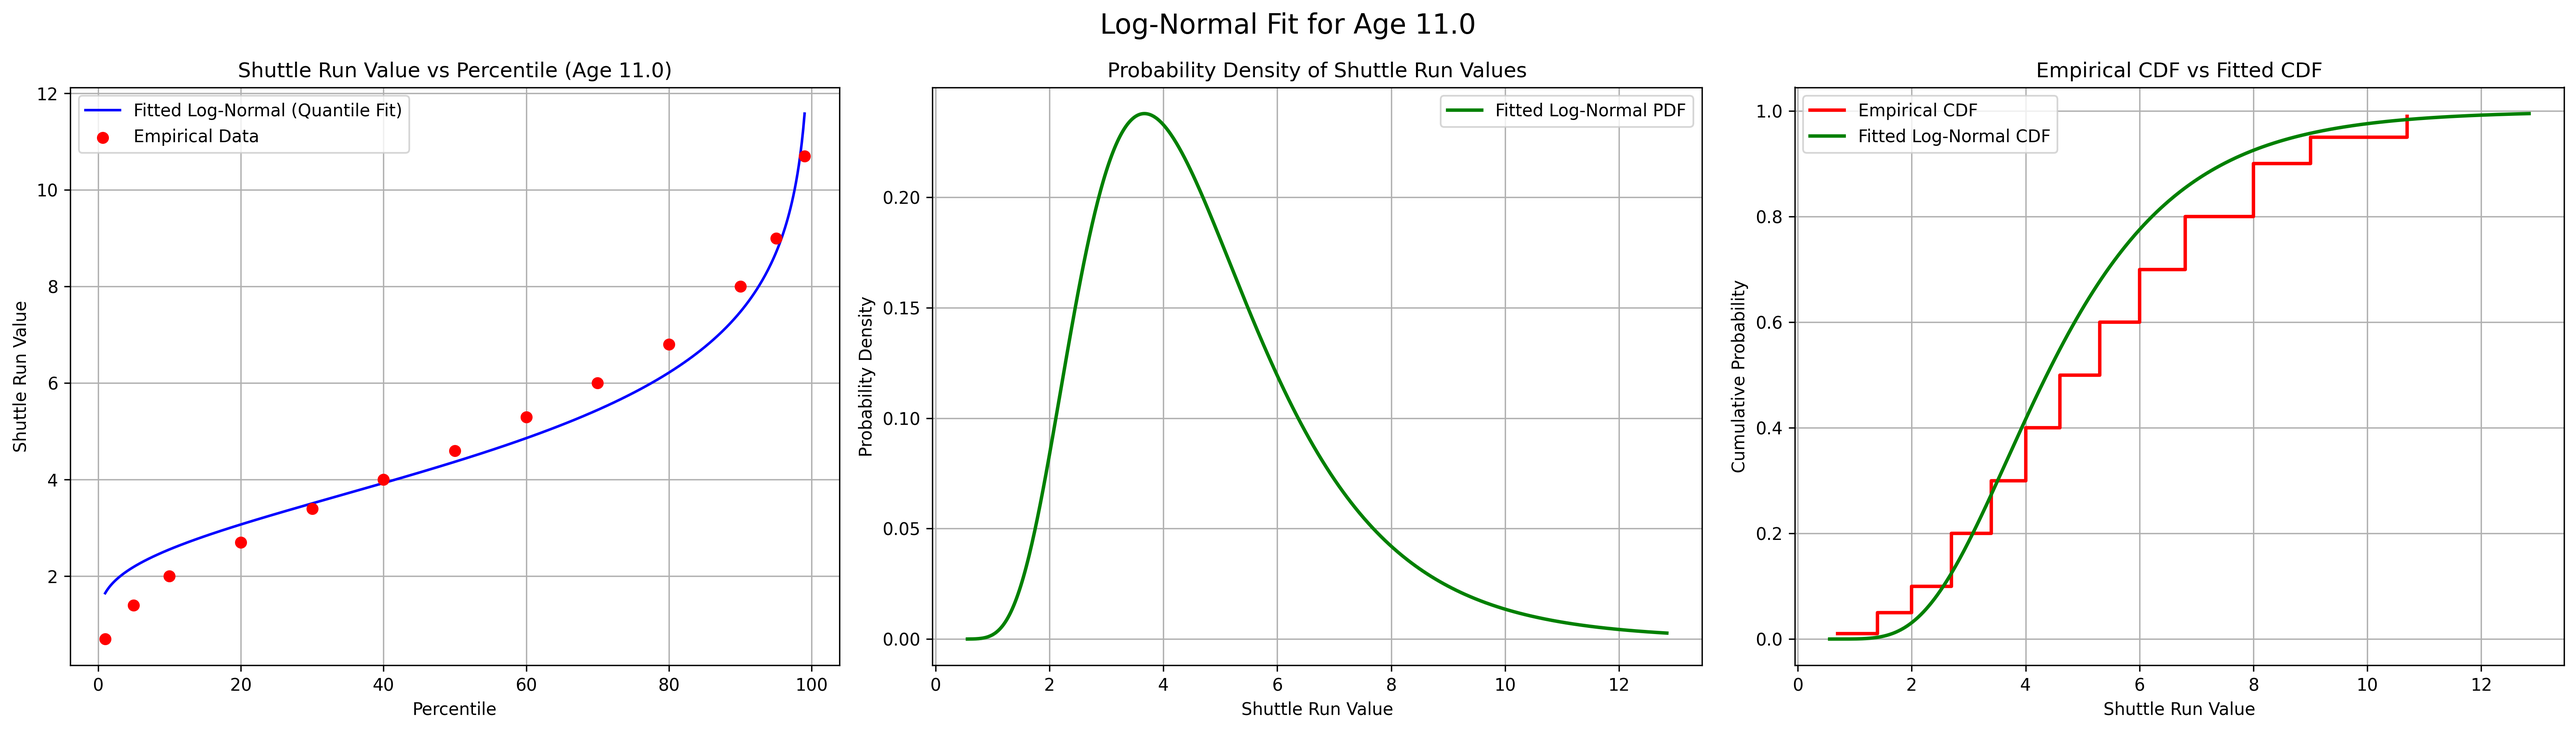
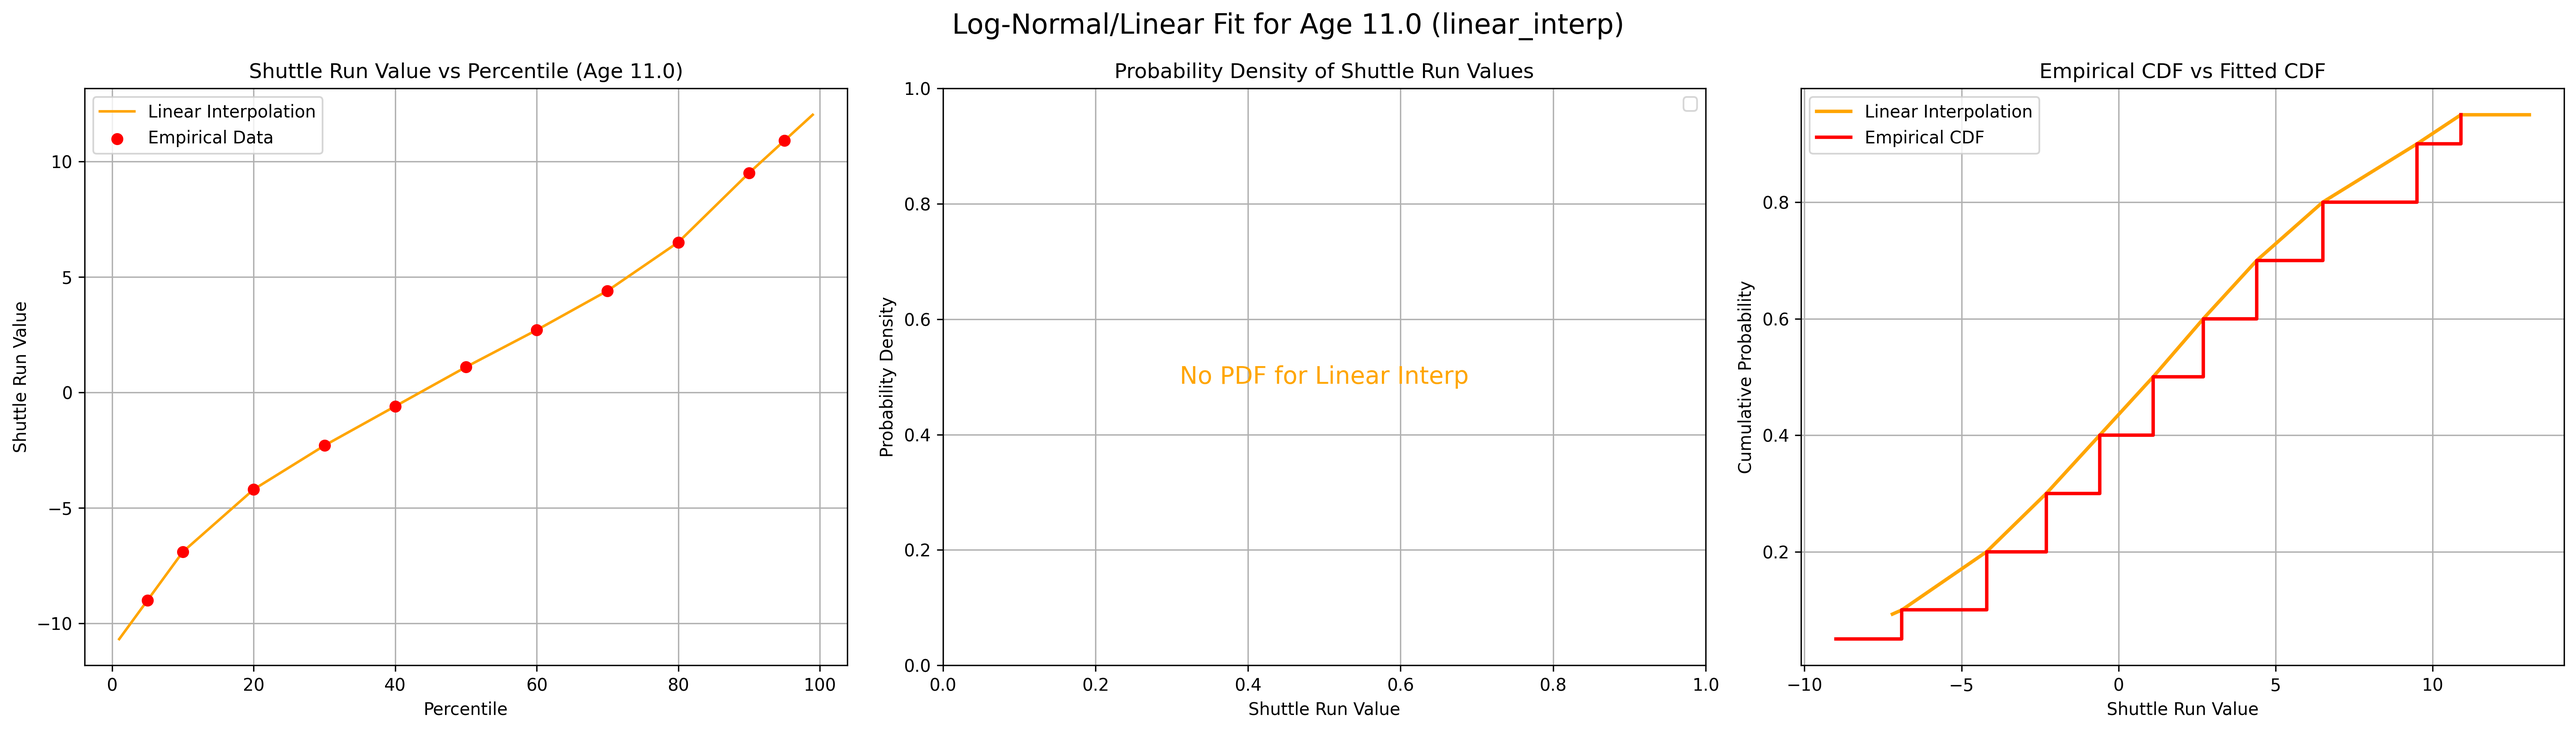
data update

diff --git a/typescript.ts b/typescript.ts
@@ -1,0 +1,64 @@
+const extrapolatedFunction = (
+    x: number,
+    intervals: number[],
+    values: number[]
+  ): number => {
+    if (intervals.length !== values.length) {
+      throw new Error("Intervals and values arrays must be of the same length.");
+    }
+  
+    if (intervals.length < 2) {
+      throw new Error("At least two intervals are required for interpolation.");
+    }
+  
+    // Below minimum: linear extrapolation
+    if (x <= intervals[0]) {
+      return linearInterpolation(x, intervals[0], intervals[1], values[0], values[1]);
+    }
+  
+    // Above maximum: linear extrapolation
+    if (x >= intervals[intervals.length - 1]) {
+      const last = intervals.length - 1;
+      return linearInterpolation(x, intervals[last - 1], intervals[last], values[last - 1], values[last]);
+    }
+  
+    // Find the correct interval for interpolation
+    for (let i = 0; i < intervals.length - 1; i++) {
+      const x0 = intervals[i];
+      const x1 = intervals[i + 1];
+  
+      if (x0 <= x && x <= x1) {
+        const y0 = values[i];
+        const y1 = values[i + 1];
+        return linearInterpolation(x, x0, x1, y0, y1);
+      }
+    }
+  
+    // Fallback (should never reach here if data is correct)
+    throw new Error("Unexpected error in extrapolatedFunction: input x out of bounds.");
+  };
+  
+  /**
+   * Performs linear interpolation or extrapolation between two points (x0, y0) and (x1, y1).
+   *
+   * @param x - The target x to estimate the value for
+   * @param x0 - Known lower bound x
+   * @param x1 - Known upper bound x
+   * @param y0 - Value at x0
+   * @param y1 - Value at x1
+   * @returns Interpolated or extrapolated y value at x
+   */
+  const linearInterpolation = (
+    x: number,
+    x0: number,
+    x1: number,
+    y0: number,
+    y1: number
+  ): number => {
+    if (x1 === x0) {
+      throw new Error("Cannot interpolate with identical x values.");
+    }
+    const slope = (y1 - y0) / (x1 - x0);
+    return y0 + slope * (x - x0);
+  };
+  
